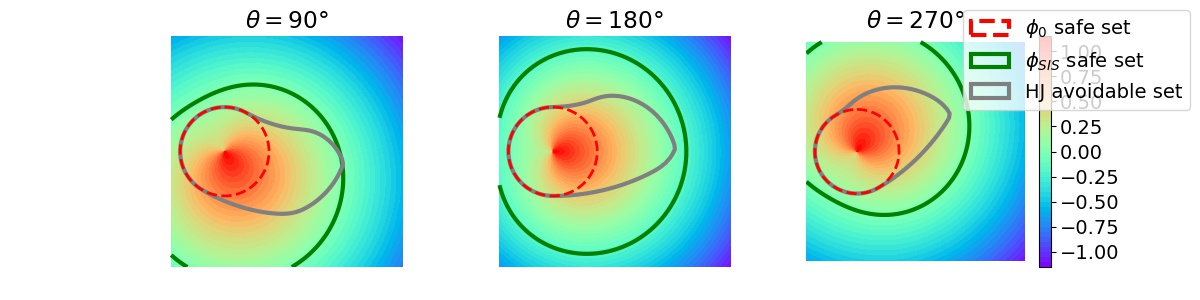
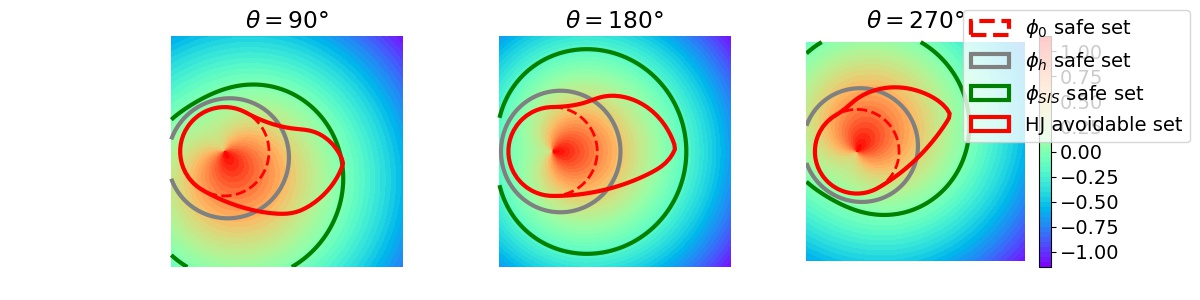
update figures

diff --git a/visualize_region_3d_sis.py b/visualize_region_3d_sis.py
@@ -98,6 +98,13 @@ def static_region(test_dir, iteration,
                                               k=sis_paras[1],
                                               n=sis_paras[2]).numpy()
 
+    flatten_phih = model.adaptive_safety_index(init_obses,
+                                              sigma=1.0,
+                                              k=2.0,
+                                              n=2.0).numpy()
+
+    flatten_phih = flatten_phih.reshape(D.shape)
+
     # if vector:
     #     flatten_cs = np.multiply(flatten_cstr, flatten_mu)
     # else:
@@ -125,6 +132,9 @@ def static_region(test_dir, iteration,
         ct1 = ax.contour(Dc, Vc, data_reshape, levels=0,
                    colors="green",
                    linewidths=3)
+        ct1 = ax.contour(Dc, Vc, flatten_phih[..., k], levels=0,
+                         colors="grey",
+                         linewidths=3)
         # ct1.collections[0].set_label('Learned')
         x = np.linspace(0, np.pi * 2, 100)
         ax.plot(5 * np.sin(x), 5 * np.cos(x), linewidth=2, linestyle='--', label=r'$\phi_0$ safe set', color='red')
@@ -133,7 +143,7 @@ def static_region(test_dir, iteration,
                        grid.coordinate_vectors[1],
                        target_values[:, :, int(10 * (k + 2))].T,
                        levels=0,
-                       colors="grey",
+                       colors="red",
                        linewidths=3,
                        linestyle='--')
             # ct2.collections[0].set_label('HJ avoid set')
@@ -144,12 +154,14 @@ def static_region(test_dir, iteration,
         name_2d = name + '_' + str(iteration) + '_2d_' + str(k) + '.jpg'
         if k == 2:
             rect0 = plt.Rectangle((0, 0), 1, 1, fill=False, ec='red', linewidth=3, linestyle='--')
-            rect1 = plt.Rectangle((0, 0), 1, 1, fill=False, ec='green', linewidth=3)
-            rect2 = plt.Rectangle((0, 0), 1, 1, fill=False, ec='grey', linewidth=3)
+            rect1 = plt.Rectangle((0, 0), 1, 1, fill=False, ec='grey', linewidth=3)
+            rect2 = plt.Rectangle((0, 0), 1, 1, fill=False, ec='green', linewidth=3)
+            rect3 = plt.Rectangle((0, 0), 1, 1, fill=False, ec='red', linewidth=3)
+
             plt.colorbar(ctf)
             # h, l = ax.get_legend_handles_labels()
-            h = (rect0, rect1, rect2)
-            l = (r'$\phi_0$ safe set', r'$\phi_{SIS}$ safe set', 'HJ avoidable set')
+            h = (rect0, rect1, rect2, rect3)
+            l = (r'$\phi_0$ safe set', r'$\phi_h$ safe set', r'$\phi_{SIS}$ safe set', 'HJ avoidable set')
             fig.legend(h, l, loc='upper right')
             # plt.tight_layout(pad=0.5)
             plt.savefig(os.path.join(evaluator.log_dir, name_2d))
